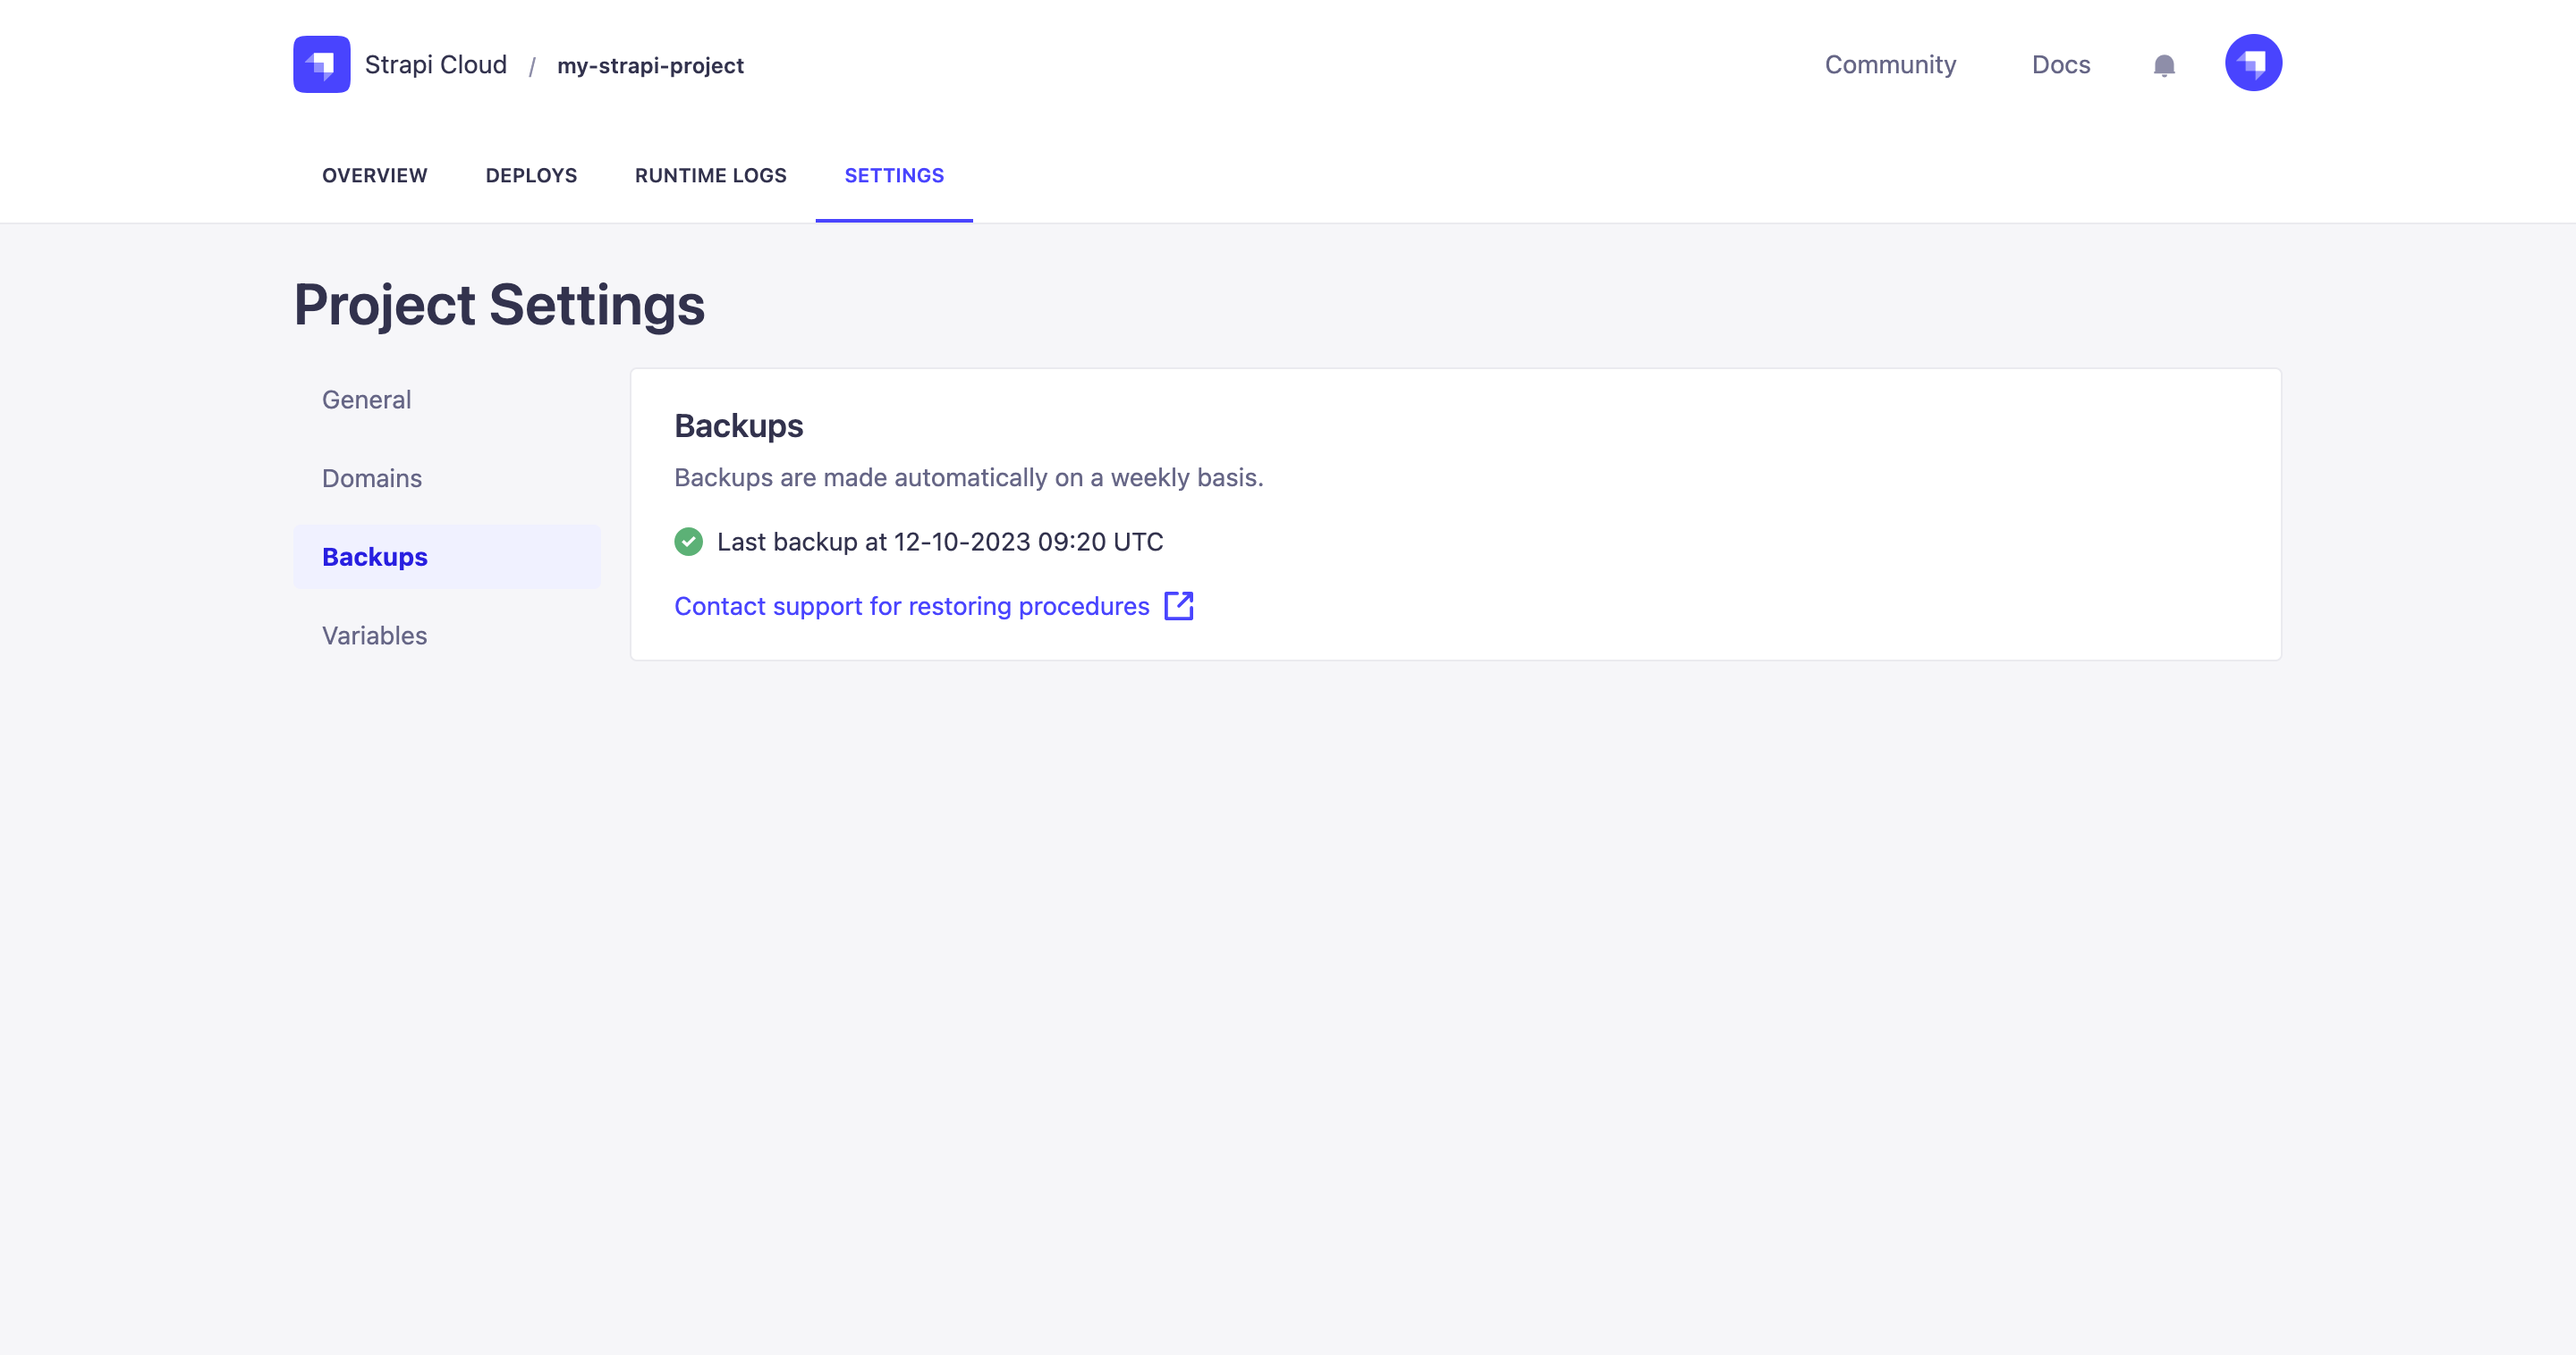
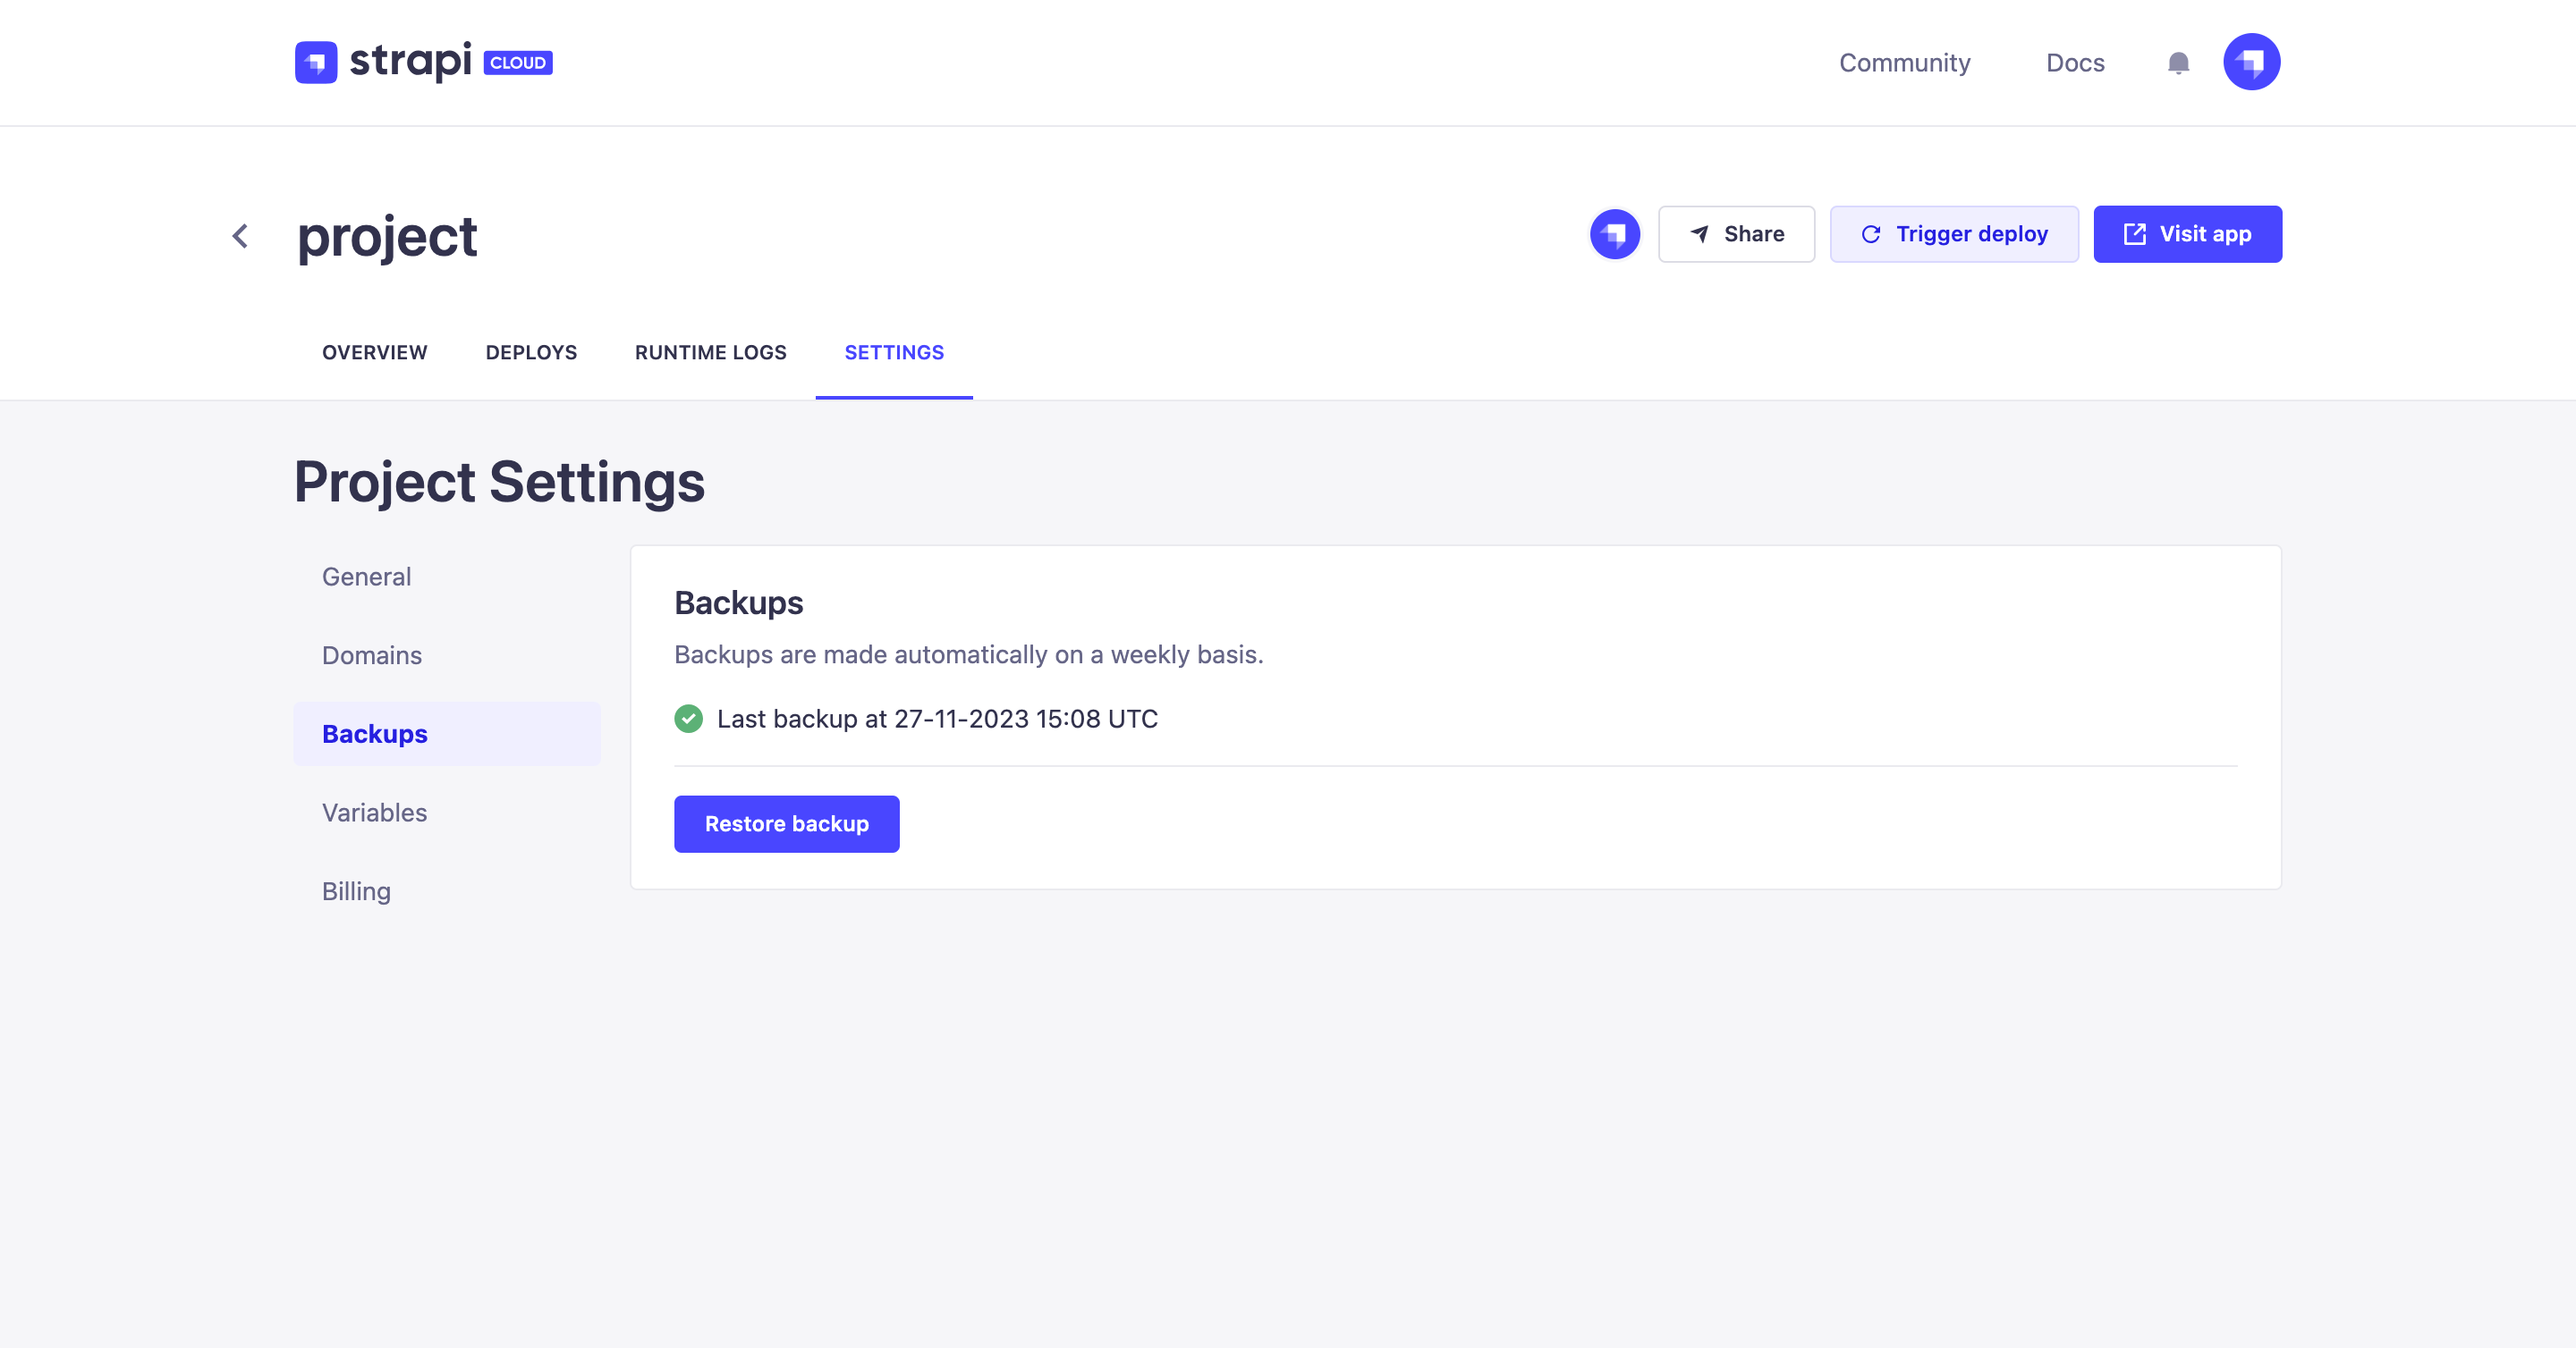
Update backup documentation + Update screenshot

diff --git a/docusaurus/docs/cloud/projects/settings.md b/docusaurus/docs/cloud/projects/settings.md
@@ -110,7 +110,11 @@ For projects created before the release of the Backup feature in October 2023, t
 
 ### Restoring a backup
 
-If you need to restore a backed up project database, click on the **Contact support for restoring procedures** link in the *Backups* section. This link will open your defaut email application and create an email to `support@strapi.io`. The Strapi support team, who will receive the database restoring request, will handle it.
+If you need to restore a backup of your project:
+
+1. In the *Backups* section, click on the **Restore backup** button.
+2. In the dialog, choose one of the available backups of your project in the *Choose backup* drop-down.
+3. Click on the **Restore** button of the dialog. Once the restoration finished, your project will be back to the state it was at the time of the chosen backup.
 
 ## Variables
 
